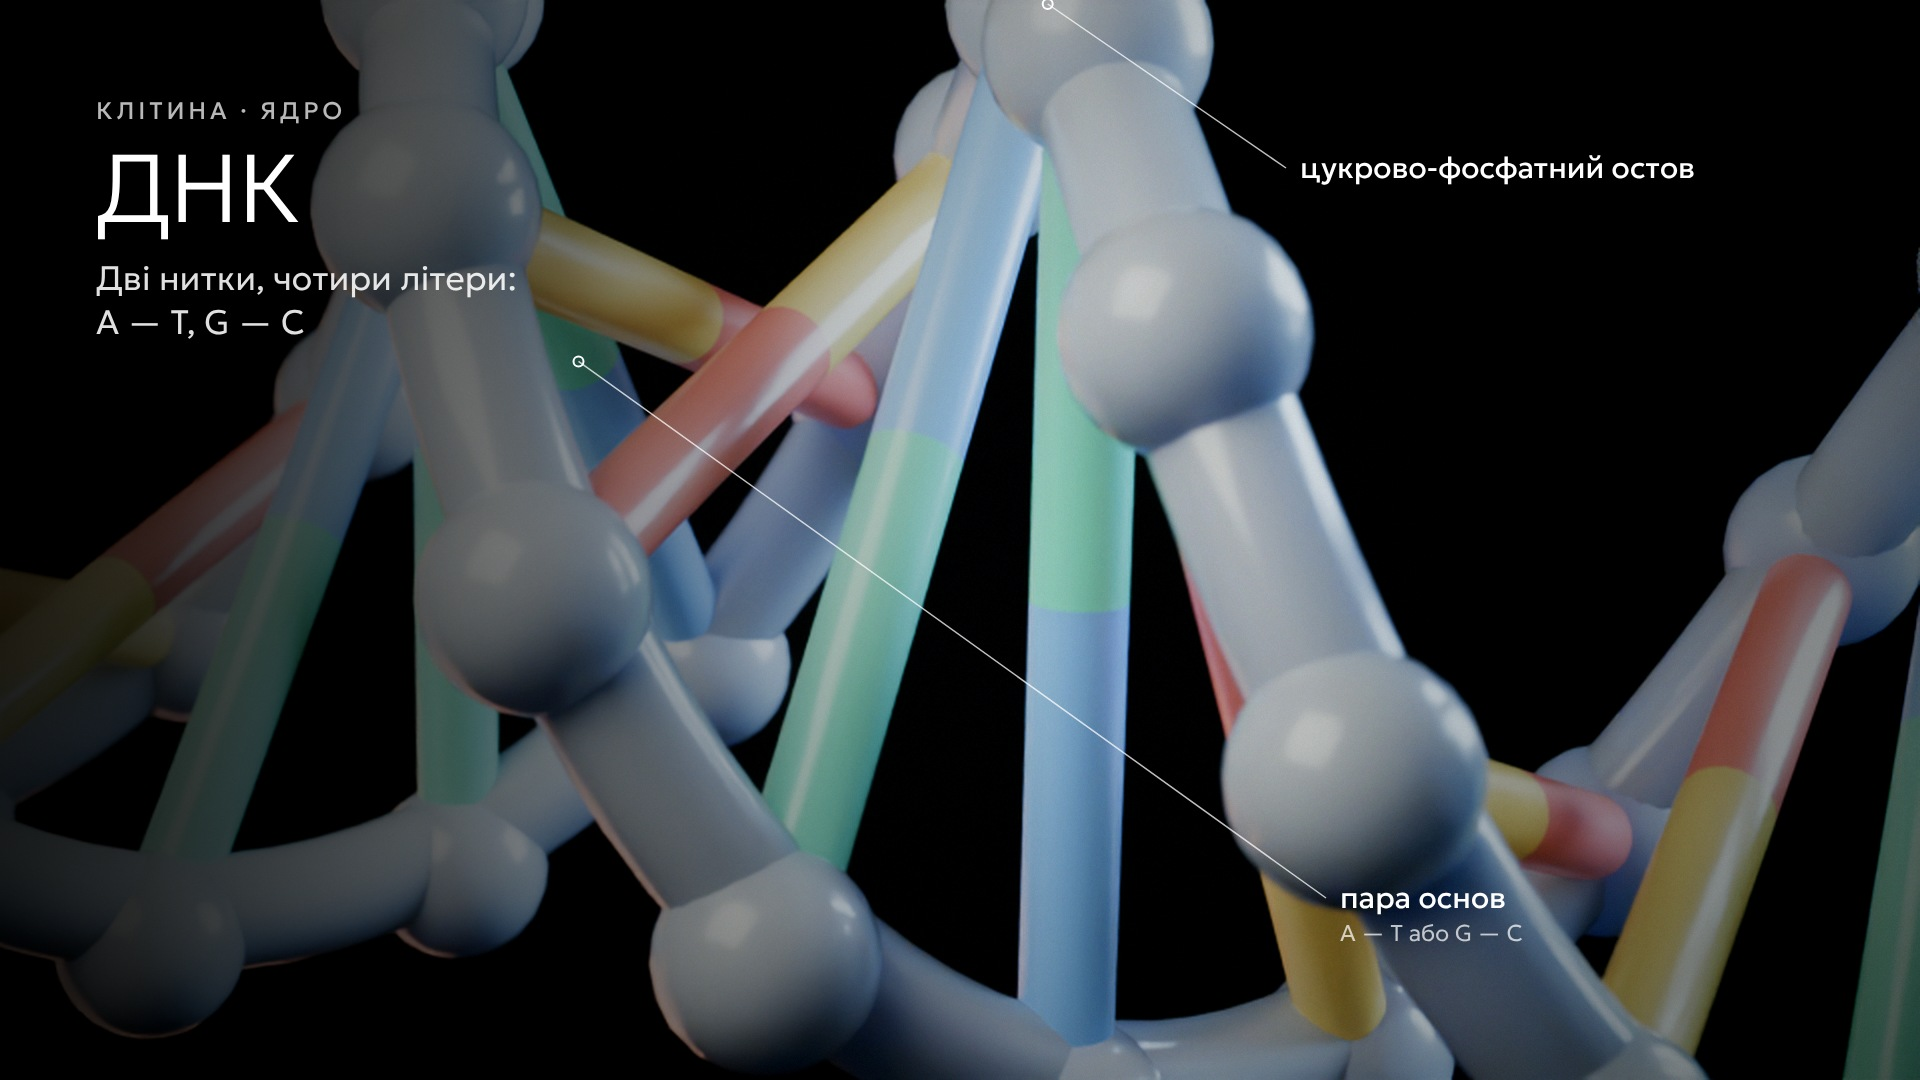
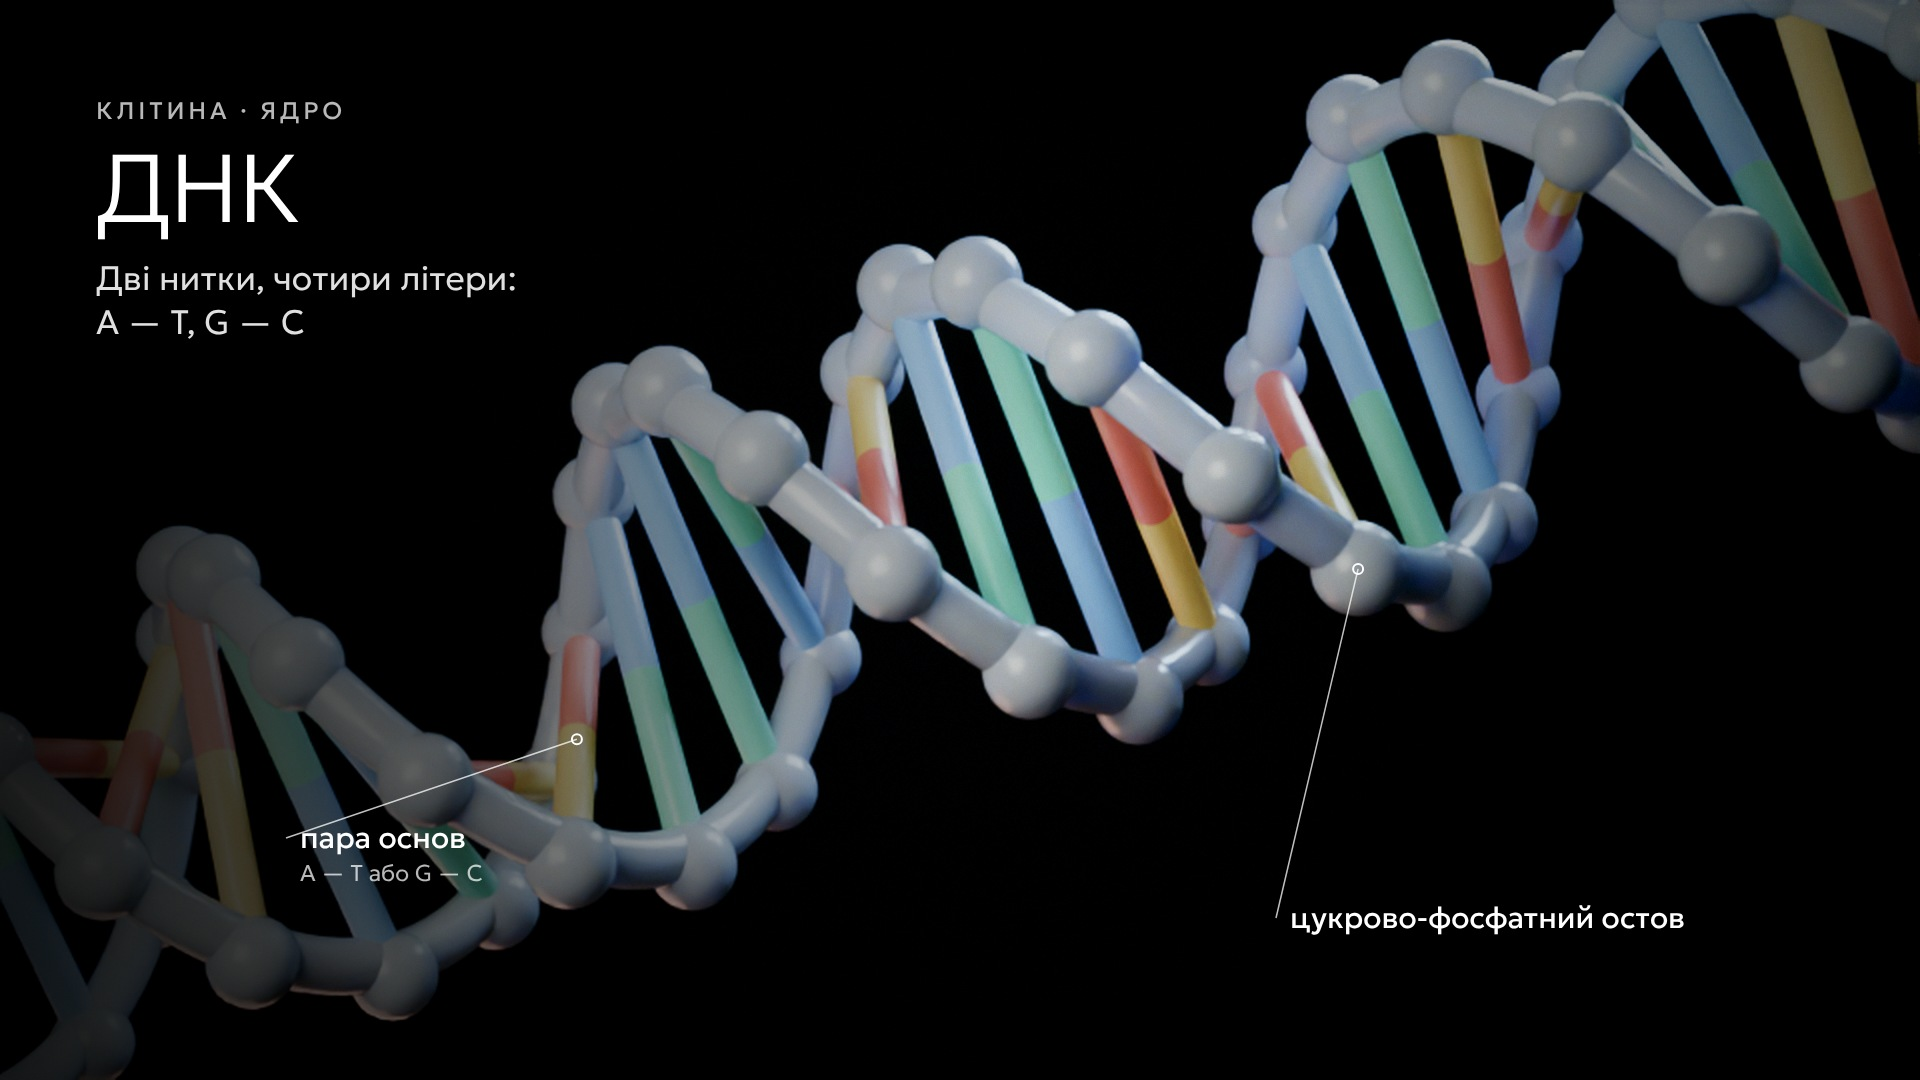
Тіло людини: сцени в роботі
Claude-Session: https://claude.ai/code/session_01Vf3rQV8xVReWUPXKXo3QgL

diff --git a/lectures/body/scenes/dna.py b/lectures/body/scenes/dna.py
@@ -21,12 +21,14 @@ def build(C):
         C.prim('sphere', f's{i}a', back, loc=p1, scale=(0.19,) * 3, u=24, v=12)
         C.prim('sphere', f's{i}b', back, loc=p2, scale=(0.19,) * 3, u=24, v=12)
     C.tube('strand1', s1, 0.12, back); C.tube('strand2', s2, 0.12, back)
-    C.cam(60, (2.6, -5.2, 1.5), (0.3, 0, 0), fstop=0.9)
-    C.area('key', (-2, -5, 5), (0, 0, 0), 5, 900, (1.0, 0.95, 0.9))
-    C.area('rim', (5, 5, 2), (0, 0, 0), 4, 2500, (0.4, 0.6, 1.0))
-    C.area('fill', (-6, 2, -3), (0, 0, 0), 6, 300, (1.0, 0.5, 0.4))
+    from mathutils import Quaternion
+    c = C.cam(50, (1.2, -11.0, 2.6), (0.2, 0, -0.1), fstop=0.35)
+    c.rotation_euler = (c.rotation_euler.to_quaternion() @ Quaternion((0, 0, 1), math.radians(-22))).to_euler()   # спіраль іде діагоналлю кадру
+    C.area('key', (-3, -7, 6), (0, 0, 0), 6, 1500, (1.0, 0.95, 0.9))
+    C.area('rim', (6, 6, 3), (0, 0, 0), 5, 4000, (0.4, 0.6, 1.0))
+    C.area('fill', (-7, 2, -4), (0, 0, 0), 6, 500, (1.0, 0.5, 0.4))
     return {
         'kicker': 'Клітина · ядро', 'title': 'ДНК', 'sub': 'Дві нитки, чотири літери:\nA — T, G — C', 'scrim': 'left', 'title_at': [96, 96],
-        'labels': [{'text': 'цукрово-фосфатний остов', 'p': s1[22], 'at': [1300, 150], 'align': 'left'},
-                   {'text': 'пара основ', 'sub': 'A — T або G — C', 'p': [(a + b) / 2 for a, b in zip(s1[19], s2[19])], 'at': [1340, 880], 'align': 'left'}],
+        'labels': [{'text': 'цукрово-фосфатний остов', 'p': s1[26], 'at': [1290, 900], 'align': 'left'},
+                   {'text': 'пара основ', 'sub': 'A — T або G — C', 'p': [(a + b) / 2 for a, b in zip(s1[16], s2[16])], 'at': [300, 820], 'align': 'left'}],
     }
